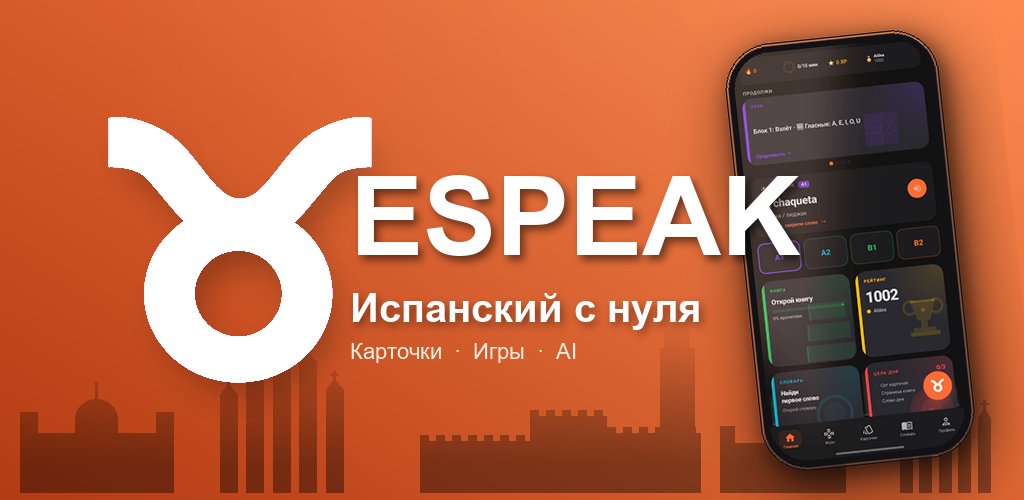
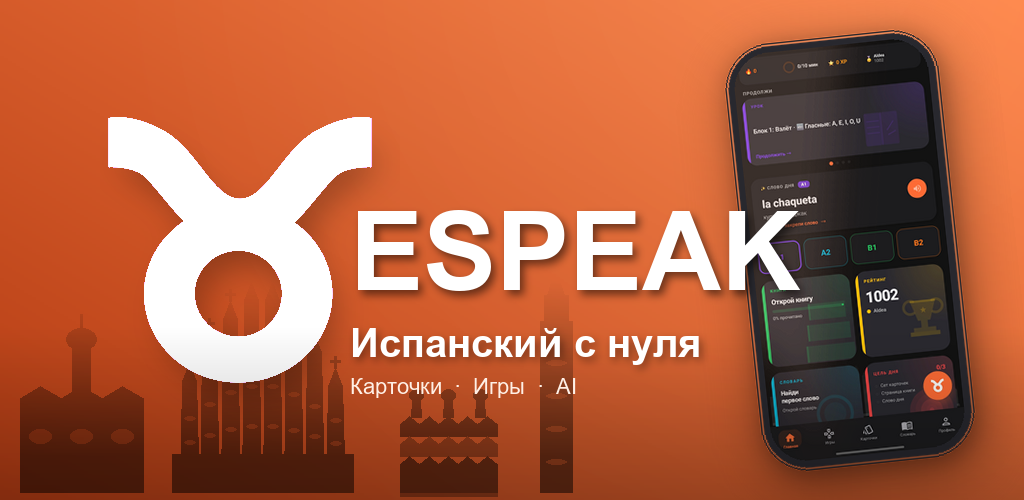
play(assets): feature graphic v7 — Gaudí + Sagrada + lowered text
User feedback on v6:
1. Bull and text too close — moved text down (y -95 → -60)
2. Lower phone contrast/shadows — body 18→40 grey, outer shadow
   alpha 170→90, inner 130→65, glass 30→24, bezel 35→25
3. Most architecture wasn't visible / no Sagrada Familia / no Gaudí
   houses — replaced palacio + alhambra with the actual famous
   landmarks:
     - Sagrada Familia (HERO, centre) — 8 tapered spires of varying
       heights with crosses and arched windows, base nave
     - Casa Batlló (left) — wavy "dragon spine" roofline + onion-bulb
       central tower with cross + skull-bone balcony shapes
     - Casa Milà / La Pedrera — undulating wavy bands + 3 chimney
       sculptures on roof
     - Giralda — bell-stage + spire + arched windows on tower

All landmarks placed in the visible 20-700 X band (away from phone)
so none gets cut off. Alpha bumped 100→130 for sharper definition.

Changed region(s): [[0.0, 0.06, 1.0, 1.0], [0.2188, 0.63, 0.25, 0.69]]

diff --git a/docs/play_assets/_make_feature_v7.py b/docs/play_assets/_make_feature_v7.py
@@ -1,0 +1,312 @@
+"""1024x500 Play Store feature graphic v7.
+
+Adjustments per user:
+  • Move text DOWN (more space from bull)
+  • Lower phone contrast & shadow intensity
+  • Replace architecture with the most famous Spanish landmarks:
+    Sagrada Familia + Casa Batlló + Casa Milà + Giralda — all
+    visible, none cut off
+"""
+from svglib.svglib import svg2rlg
+from reportlab.graphics import renderPM
+from PIL import Image, ImageDraw, ImageFont, ImageFilter
+import io, os
+
+W, H = 1024, 500
+
+BULL_SVG = '<?xml version="1.0" encoding="UTF-8"?>\n<svg xmlns="http://www.w3.org/2000/svg" width="300" height="300" viewBox="0 0 512 512"><rect width="512" height="512" fill="#FF00FF"/><path fill="#FFFFFF" d="M30.882,30.14s33.525,-10.81 92.088,19.64c60.996,31.72 85.628,116.77 132.906,117.86c47.283,-1.09 71.92,-86.14 132.912,-117.858c58.558,-30.45 92.088,-19.643 92.088,-19.643v85.483s-38.062,-2.453 -58.934,13.507c-15.165,11.593 -45.23,54.296 -71.375,80.08c38.867,27.833 63.966,71.877 63.966,121.45c0,84.162 -72.343,152.39 -161.587,152.39S91.353,414.821 91.353,330.659c0,-51.03 26.6,-96.205 67.432,-123.865c-25.558,-25.957 -54.263,-66.43 -68.965,-77.67c-20.877,-15.96 -58.938,-13.506 -58.938,-13.506zM179.45,330.49c0,40.01 32.98,72.44 73.664,72.44s73.67,-32.435 73.67,-72.44s-32.98,-72.44 -73.67,-72.44c-40.688,0 -73.664,32.436 -73.664,72.44"/></svg>'
+
+drawing = svg2rlg(io.BytesIO(BULL_SVG.encode('utf-8')))
+bull_marker_path = 'docs/play_assets/_bull_marker_tmp.png'
+renderPM.drawToFile(drawing, bull_marker_path, fmt='PNG', dpi=72)
+bull = Image.open(bull_marker_path).convert('RGBA')
+data = list(bull.getdata())
+new_data = []
+for r, g, b, a in data:
+    if r > b * 0.9 and g < 200 and abs(r - b) < 80 and r > 150 and b > 150 and g < r * 0.7:
+        new_data.append((0, 0, 0, 0))
+    else:
+        new_data.append((r, g, b, a))
+bull.putdata(new_data)
+
+# Background — diagonal gradient
+img = Image.new('RGBA', (W, H), (217, 82, 28, 255))
+draw = ImageDraw.Draw(img)
+top_color = (255, 130, 70); bot_color = (180, 60, 20)
+for y in range(H):
+    for x_seg in range(0, W, 4):
+        dx = (W - x_seg) / W; dy = y / H
+        t = max(0.0, min(1.0, dx * 0.55 + dy * 0.45))
+        r = int(top_color[0] + (bot_color[0] - top_color[0]) * t)
+        g = int(top_color[1] + (bot_color[1] - top_color[1]) * t)
+        b = int(top_color[2] + (bot_color[2] - top_color[2]) * t)
+        draw.rectangle([x_seg, y, x_seg + 4, y + 1], fill=(r, g, b))
+
+# Sun-glow
+glow = Image.new('RGBA', (W, H), (0, 0, 0, 0))
+gdraw = ImageDraw.Draw(glow)
+for r in range(700, 80, -8):
+    alpha = max(0, int(28 - r * 0.038))
+    if alpha <= 0: continue
+    gdraw.ellipse([W - 200 - r, -50 - r, W - 200 + r, -50 + r],
+                  fill=(255, 240, 200, alpha))
+glow = glow.filter(ImageFilter.GaussianBlur(8))
+img = Image.alpha_composite(img, glow)
+
+# ── Architecture: 4 famous landmarks, all visible ──
+arch = Image.new('RGBA', (W, H), (0, 0, 0, 0))
+adraw = ImageDraw.Draw(arch)
+A = (0, 0, 0, 130)
+A_LIGHT = (0, 0, 0, 80)
+base_y = H - 8
+
+def sagrada_familia(x, scale=1.0):
+    """THE Sagrada Familia — 8 pointed spires of varying heights with crosses."""
+    s = scale
+    spires = [(0, 130), (22, 165), (44, 195), (66, 215),
+              (88, 215), (110, 190), (132, 160), (154, 125)]
+    sw = int(20 * s)
+    for dx, h in spires:
+        h = int(h * s)
+        bx = x + int(dx * s)
+        # tapered body
+        adraw.polygon([
+            (bx, base_y),
+            (bx + sw, base_y),
+            (bx + int(sw * 0.85), base_y - h + 12),
+            (bx + int(sw * 0.15), base_y - h + 12),
+        ], fill=A)
+        # pointed tip
+        adraw.polygon([
+            (bx + int(sw * 0.15), base_y - h + 12),
+            (bx + sw // 2, base_y - h - 6),
+            (bx + int(sw * 0.85), base_y - h + 12),
+        ], fill=A)
+        # cross on top
+        cy = base_y - h - 6
+        adraw.rectangle([bx + sw // 2 - 1, cy - 12, bx + sw // 2 + 1, cy], fill=A)
+        adraw.rectangle([bx + sw // 2 - 5, cy - 8, bx + sw // 2 + 5, cy - 6], fill=A)
+        # 3 small arched windows on body (Gaudí detail)
+        for j in range(3):
+            wy = base_y - 25 - j * int(h * 0.20)
+            adraw.ellipse([bx + 4, wy - 3, bx + sw - 4, wy + 1], fill=A_LIGHT)
+    # base nave
+    adraw.rectangle([x - 8, base_y - int(40 * s),
+                     x + int(174 * s) + 8, base_y], fill=A)
+
+def casa_batllo(x, scale=1.0):
+    """Casa Batlló (Gaudí) — wavy dragon-spine roof + onion-bulb tower."""
+    s = scale
+    body_w = int(130 * s); body_h = int(110 * s)
+    bx = x; by = base_y - body_h
+    # Wavy roofline (dragon spine = 6 arches)
+    facade = [(bx, base_y), (bx, by + 18)]
+    arches = 6
+    for i in range(arches + 1):
+        wx = bx + int(i * body_w / arches)
+        wy = by + (10 if i % 2 == 0 else -2)
+        facade.append((wx, wy))
+    facade.append((bx + body_w, by + 18))
+    facade.append((bx + body_w, base_y))
+    adraw.polygon(facade, fill=A)
+    # Central tower with onion-bulb
+    tcx = bx + body_w // 2
+    tw = int(20 * s); th = int(48 * s)
+    adraw.rectangle([tcx - tw // 2, by - th, tcx + tw // 2, by + 5], fill=A)
+    bulb_r = int(16 * s)
+    adraw.ellipse([tcx - bulb_r, by - th - bulb_r,
+                   tcx + bulb_r, by - th + bulb_r // 2], fill=A)
+    # cross on bulb
+    adraw.rectangle([tcx - 1, by - th - bulb_r - 14, tcx + 1, by - th - bulb_r], fill=A)
+    # 3 skull-bone balcony shapes on facade
+    for i in range(3):
+        wx = bx + int((i + 0.5) * body_w / 3)
+        wy = by + int(50 * s)
+        adraw.ellipse([wx - 11, wy - 6, wx + 11, wy + 8], fill=A_LIGHT)
+
+def casa_mila(x, scale=1.0):
+    """Casa Milà (La Pedrera) — undulating wavy facade + chimneys."""
+    s = scale
+    body_w = int(115 * s); body_h = int(95 * s)
+    bx = x; by = base_y - body_h
+    # 4 wavy bands stacked
+    bands = 4
+    for band in range(bands):
+        band_y = by + int(band * body_h / bands)
+        pts = [(bx, band_y + 12)]
+        steps = 10
+        for i in range(steps + 1):
+            px = bx + int(i * body_w / steps)
+            offset = 6 if i % 2 == 0 else -2
+            pts.append((px, band_y + 6 + offset))
+        pts.append((bx + body_w, band_y + 12))
+        pts.append((bx + body_w, band_y + int(body_h / bands) + 4))
+        pts.append((bx, band_y + int(body_h / bands) + 4))
+        adraw.polygon(pts, fill=A if band % 2 == 0 else A_LIGHT)
+    # solid base
+    adraw.rectangle([bx, by + int(body_h * 0.7), bx + body_w, base_y], fill=A)
+    # 3 chimney sculptures on roof
+    for i in range(3):
+        cx = bx + int((i + 0.5) * body_w / 3)
+        cy_top = by - int(22 * s)
+        adraw.polygon([
+            (cx - 5, by + 5), (cx + 5, by + 5),
+            (cx + 4, cy_top + 5), (cx - 4, cy_top + 5),
+        ], fill=A)
+        adraw.ellipse([cx - 7, cy_top - 5, cx + 7, cy_top + 7], fill=A)
+
+def giralda(x, scale=1.0):
+    """Sevilla Giralda — tall thin tower + bell-stage + spire."""
+    s = scale
+    tw = int(34 * s); th = int(180 * s)
+    adraw.rectangle([x, base_y - th, x + tw, base_y], fill=A)
+    bs_w = int(26 * s); bs_h = int(28 * s)
+    bx = x + (tw - bs_w) // 2
+    adraw.rectangle([bx, base_y - th - bs_h, bx + bs_w, base_y - th + 2], fill=A)
+    sp_w = int(18 * s); sp_h = int(28 * s)
+    sx = x + (tw - sp_w) // 2
+    adraw.polygon([
+        (sx, base_y - th - bs_h),
+        (sx + sp_w // 2, base_y - th - bs_h - sp_h),
+        (sx + sp_w, base_y - th - bs_h),
+    ], fill=A)
+    cy = base_y - th - bs_h - sp_h
+    adraw.rectangle([sx + sp_w // 2 - 1, cy - 14, sx + sp_w // 2 + 1, cy], fill=A)
+    # arched windows on tower
+    for j in range(4):
+        wy = base_y - 30 - j * int(35 * s)
+        adraw.ellipse([x + 6, wy - 3, x + tw - 6, wy + 2], fill=A_LIGHT)
+
+# Compose — Casa Batlló left, Sagrada centre (HERO), Casa Milà,
+# Giralda — all in the visible left+centre band, away from phone.
+casa_batllo(20, scale=0.95)
+sagrada_familia(180, scale=0.95)        # HERO
+casa_mila(400, scale=0.85)
+giralda(540, scale=0.95)
+
+# Soft top fade
+fade = Image.new('L', (W, H), 0)
+fdraw = ImageDraw.Draw(fade)
+for y in range(H):
+    if y < 280:
+        fdraw.line([(0, y), (W, y)], fill=0)
+    else:
+        v = int(min(255, (y - 280) / (H - 280) * 320))
+        fdraw.line([(0, y), (W, y)], fill=v)
+arch_masked = Image.composite(arch, Image.new('RGBA', (W, H), (0, 0, 0, 0)), fade)
+img = Image.alpha_composite(img, arch_masked)
+
+# ── Phone mockup — softer shadows ──────────────────────────
+SHOT = 'docs/play_assets/screenshots/Screenshot_20260511_095005_ESPEAK.jpg'
+shot = Image.open(SHOT).convert('RGBA')
+ph_h = 410
+ph_w = int(ph_h * (shot.width / shot.height))
+shot_resized = shot.resize((ph_w, ph_h), Image.LANCZOS)
+
+PHONE_W = ph_w + 18
+PHONE_H = ph_h + 18
+
+def build_phone():
+    pad = 60
+    canvas = Image.new('RGBA', (PHONE_W + pad * 2, PHONE_H + pad * 2), (0, 0, 0, 0))
+    # Softer outer shadow (was 170 alpha → 90)
+    s1 = Image.new('RGBA', canvas.size, (0, 0, 0, 0))
+    s1d = ImageDraw.Draw(s1)
+    s1d.rounded_rectangle([pad + 6, pad + 14, pad + PHONE_W + 6, pad + PHONE_H + 14],
+                           radius=44, fill=(0, 0, 0, 90))
+    s1 = s1.filter(ImageFilter.GaussianBlur(28))
+    s2 = Image.new('RGBA', canvas.size, (0, 0, 0, 0))
+    s2d = ImageDraw.Draw(s2)
+    s2d.rounded_rectangle([pad + 3, pad + 5, pad + PHONE_W + 3, pad + PHONE_H + 5],
+                           radius=44, fill=(0, 0, 0, 65))
+    s2 = s2.filter(ImageFilter.GaussianBlur(10))
+    canvas = Image.alpha_composite(canvas, s1)
+    canvas = Image.alpha_composite(canvas, s2)
+    body = Image.new('RGBA', canvas.size, (0, 0, 0, 0))
+    bdraw = ImageDraw.Draw(body)
+    # Lower body contrast — was (18,18,22) → (40,40,46) softer dark grey
+    bdraw.rounded_rectangle([pad, pad, pad + PHONE_W, pad + PHONE_H],
+                            radius=46, fill=(40, 40, 46, 255))
+    bdraw.rounded_rectangle([pad + 1, pad + 1, pad + PHONE_W - 1, pad + PHONE_H - 1],
+                            radius=45, outline=(255, 255, 255, 25), width=2)
+    canvas = Image.alpha_composite(canvas, body)
+    mask = Image.new('L', (ph_w, ph_h), 0)
+    mdraw = ImageDraw.Draw(mask)
+    mdraw.rounded_rectangle([0, 0, ph_w - 1, ph_h - 1], radius=36, fill=255)
+    canvas.paste(shot_resized, (pad + 9, pad + 9), mask)
+    glass = Image.new('RGBA', (ph_w, ph_h), (0, 0, 0, 0))
+    gdr = ImageDraw.Draw(glass)
+    gdr.polygon([(0, 0), (ph_w * 0.6, 0), (ph_w * 0.25, ph_h), (0, ph_h * 0.7)],
+                fill=(255, 255, 255, 24))
+    glass = glass.filter(ImageFilter.GaussianBlur(20))
+    glass_masked = Image.composite(glass,
+                                    Image.new('RGBA', glass.size, (0, 0, 0, 0)),
+                                    mask)
+    canvas.paste(glass_masked, (pad + 9, pad + 9), glass_masked)
+    return canvas
+
+phone_full = build_phone()
+phone_full = phone_full.rotate(6, resample=Image.BICUBIC, expand=True)
+
+phone_x = W - phone_full.width + 20
+phone_y = (H - phone_full.height) // 2
+img.paste(phone_full, (phone_x, phone_y), phone_full)
+
+# ── Bull (300px) with cast shadow ──────────────────────────
+def with_shadow(im, ox=12, oy=18, blur=18, alpha=120):
+    pad = blur * 2 + 30
+    canvas = Image.new('RGBA', (im.width + pad * 2, im.height + pad * 2), (0, 0, 0, 0))
+    shadow = Image.new('RGBA', im.size, (0, 0, 0, 0))
+    shadow_data = []
+    for r, g, b, a in im.getdata():
+        shadow_data.append((0, 0, 0, min(a, alpha)))
+    shadow.putdata(shadow_data)
+    blurred = shadow.filter(ImageFilter.GaussianBlur(blur))
+    canvas.paste(blurred, (pad + ox, pad + oy), blurred)
+    canvas.paste(im, (pad, pad), im)
+    return canvas
+
+bull_with_shadow = with_shadow(bull, ox=10, oy=20, blur=20, alpha=150)
+bull_x = 20
+bull_y = (H - bull_with_shadow.height) // 2
+img.paste(bull_with_shadow, (bull_x, bull_y), bull_with_shadow)
+
+# Bottom vignette
+vig = Image.new('RGBA', (W, H), (0, 0, 0, 0))
+vdr = ImageDraw.Draw(vig)
+for y in range(int(H * 0.65), H):
+    t = (y - H * 0.65) / (H - H * 0.65)
+    vdr.line([(0, y), (W, y)], fill=(0, 0, 0, int(70 * t)))
+img = Image.alpha_composite(img, vig)
+
+# ── Text — moved down per user feedback ───────────────────
+def find_font(candidates):
+    for path in candidates:
+        if os.path.exists(path): return path
+    return None
+font_bold = find_font(['C:/Windows/Fonts/arialbd.ttf', 'C:/Windows/Fonts/seguibl.ttf'])
+font_reg  = find_font(['C:/Windows/Fonts/arial.ttf', 'C:/Windows/Fonts/segoeui.ttf'])
+font_brand   = ImageFont.truetype(font_bold, 110)
+font_tagline = ImageFont.truetype(font_bold, 40)
+font_feats   = ImageFont.truetype(font_reg, 22)
+
+text_x = 350
+y = H // 2 - 60       # was -95; lower per user feedback
+
+shadow_layer = Image.new('RGBA', (W, H), (0, 0, 0, 0))
+sd = ImageDraw.Draw(shadow_layer)
+sd.text((text_x + 4, y + 5), "ESPEAK", fill=(0, 0, 0, 130), font=font_brand)
+sd.text((text_x + 3, y + 130 + 4), "Испанский с нуля", fill=(0, 0, 0, 100), font=font_tagline)
+shadow_layer = shadow_layer.filter(ImageFilter.GaussianBlur(4))
+img = Image.alpha_composite(img, shadow_layer)
+
+draw = ImageDraw.Draw(img)
+draw.text((text_x, y), "ESPEAK", fill=(255, 255, 255), font=font_brand)
+draw.text((text_x, y + 130), "Испанский с нуля", fill=(255, 255, 255), font=font_tagline)
+draw.text((text_x, y + 184), "Карточки  ·  Игры  ·  AI",
+          fill=(255, 240, 230), font=font_feats)
+
+out = 'docs/play_assets/feature_1024x500.png'
+img.convert('RGB').save(out, 'PNG', optimize=True)
+os.remove(bull_marker_path)
+print('Wrote', out, os.path.getsize(out), 'bytes')
